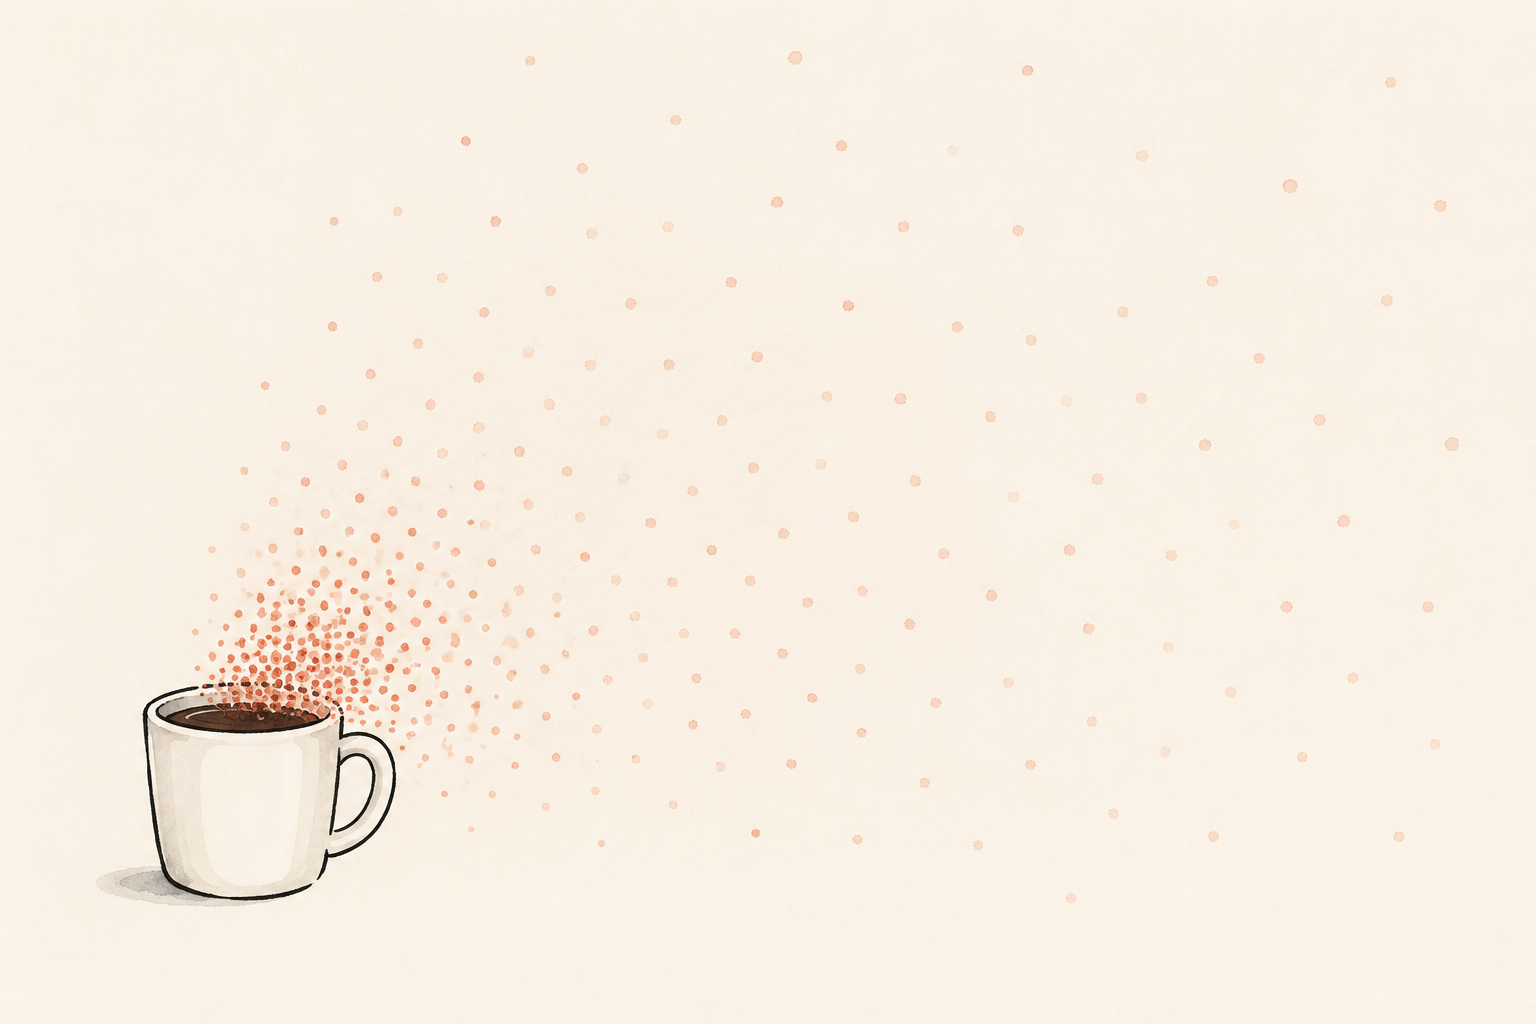
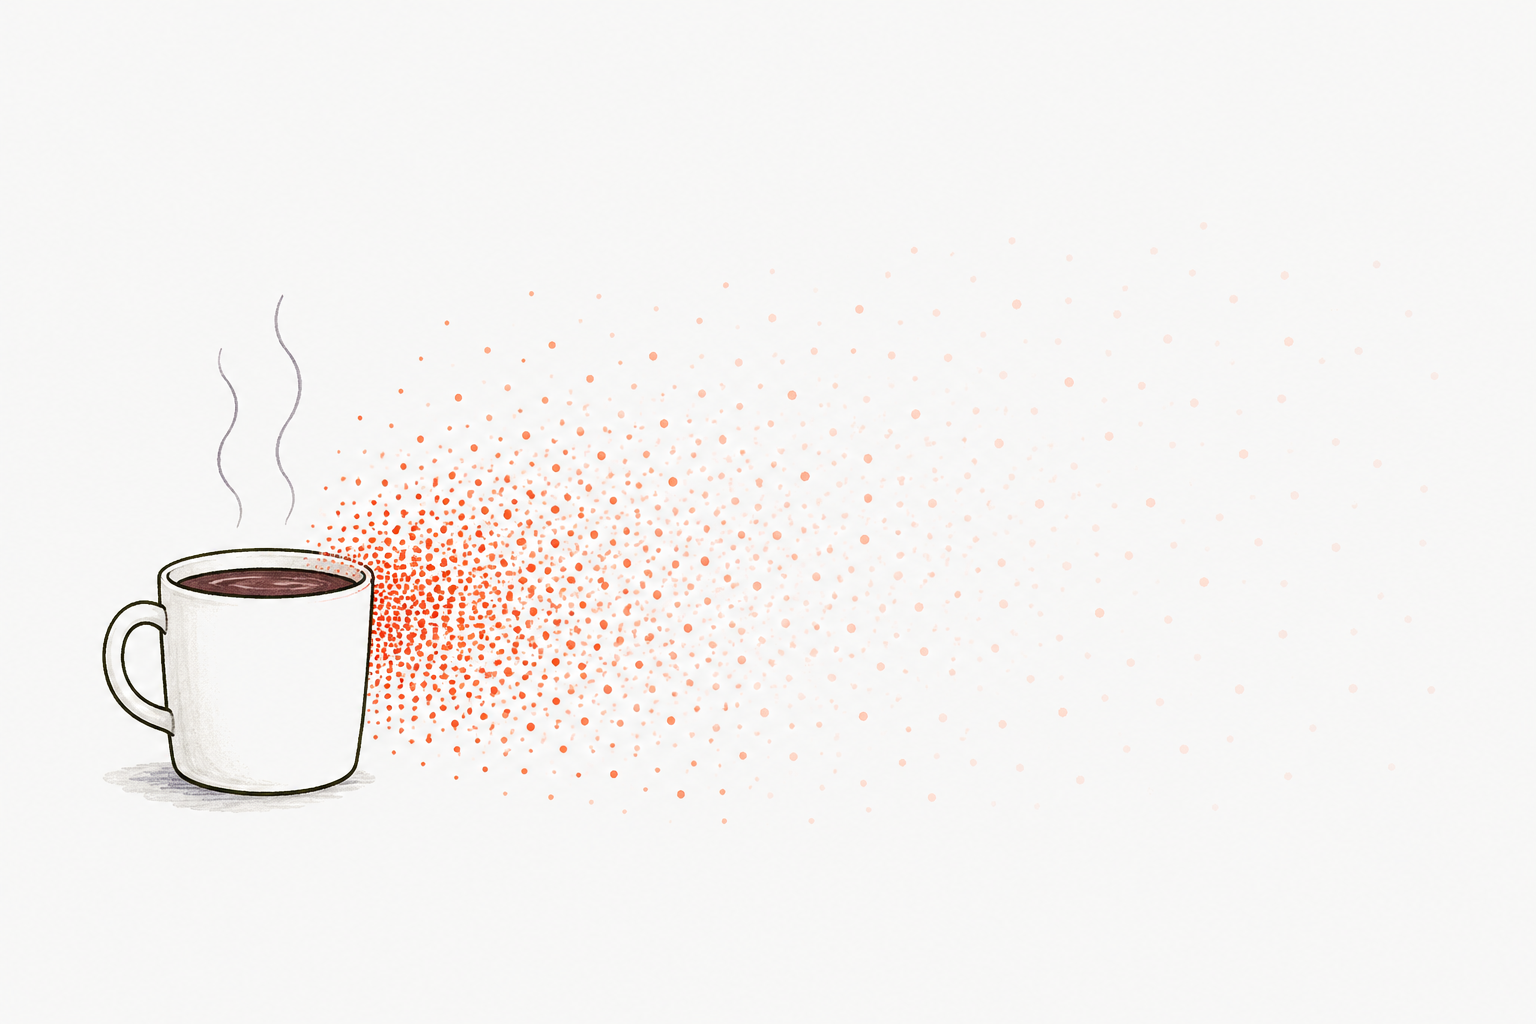
Update active inference chapter card images

diff --git a/active-inference.html b/active-inference.html
@@ -17,15 +17,16 @@
 
   <main class="article-index-main" aria-label="Active Inference chapters">
     <section class="article-card-grid chapter-card-grid">
-      <a class="article-card chapter-card" href="active-inference-chapter-1-the-problem-of-irreversibility.html">
-        <span class="article-card-title">Chapter 1: The Problem of Irreversibility</span>
+      <a class="article-card chapter-card active-inference-chapter-1-card" href="active-inference-chapter-1-the-problem-of-irreversibility.html">
+        <span class="article-card-title">1: The Problem of Irreversibility</span>
+        <img class="chapter-card-corner-image" src="images/active-inference-chapter-1-card-newton.png" alt="" aria-hidden="true">
         <span class="article-card-footer">
           <strong>Read More -></strong>
         </span>
       </a>
 
       <a class="article-card chapter-card active-inference-chapter-2-card" href="active-inference-chapter-2-statistical-mechanics-and-the-second-law-of-thermodynamics.html">
-        <span class="article-card-title">Chapter 2: Statistical Mechanics</span>
+        <span class="article-card-title">2: Statistical Mechanics</span>
         <img class="chapter-card-corner-image" src="images/active-inference-chapter-2-card-coffee.png" alt="" aria-hidden="true">
         <span class="article-card-footer">
           <strong>Read More -></strong>

diff --git a/style.css b/style.css
@@ -136,12 +136,15 @@ body {
   z-index: 0;
 }
 
+.active-inference-chapter-1-card .article-card-title,
+.active-inference-chapter-1-card .article-card-footer,
 .active-inference-chapter-2-card .article-card-title,
 .active-inference-chapter-2-card .article-card-footer {
   position: relative;
   z-index: 1;
 }
 
+.active-inference-chapter-1-card .article-card-footer,
 .active-inference-chapter-2-card .article-card-footer {
   margin-left: auto;
 }